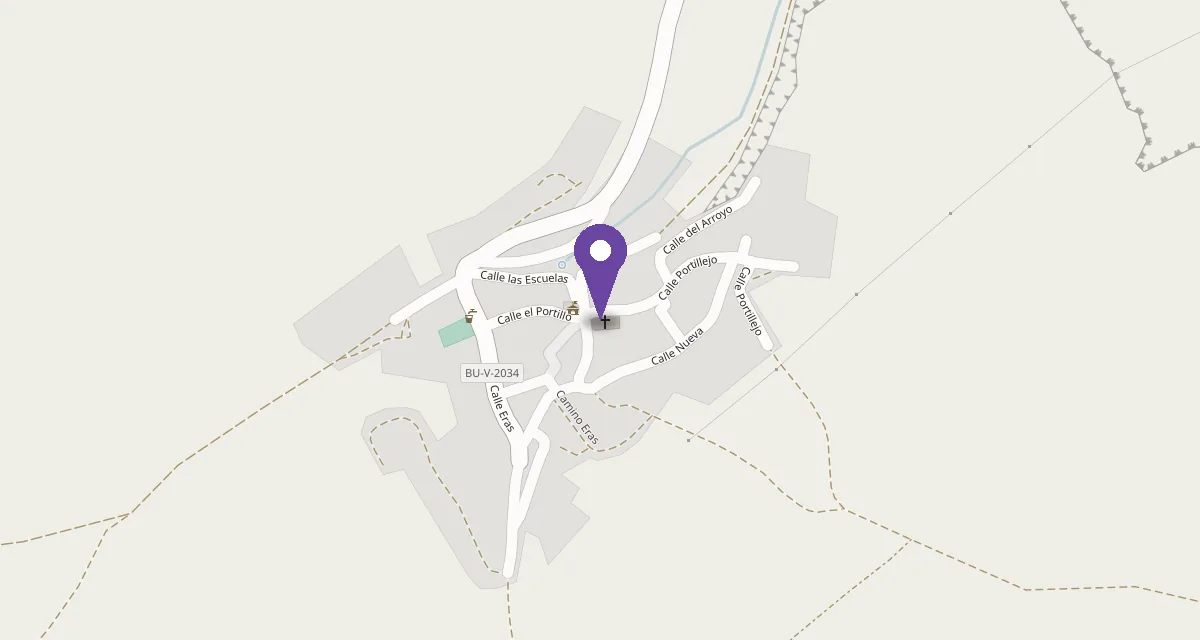
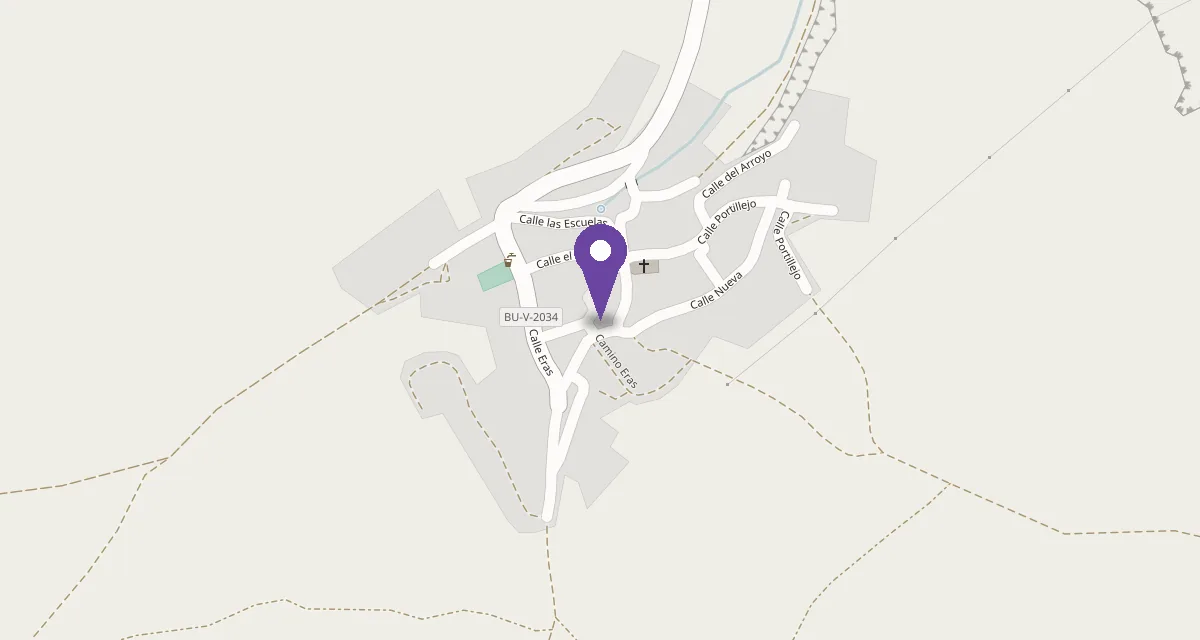
Ubicación exacta de la biblioteca: mapa, enlace a Google Maps y datos estructurados

diff --git a/contacto.html b/contacto.html
@@ -52,8 +52,8 @@
     },
     "geo": {
       "@type": "GeoCoordinates",
-      "latitude": 41.6048,
-      "longitude": -3.8497
+      "latitude": 41.604349,
+      "longitude": -3.850118
     }
   }
 }
@@ -135,7 +135,7 @@
         </article>
       </div>
 
-      <a class="mapa" href="https://www.google.com/maps/search/?api=1&amp;query=41.6048%2C-3.8497" target="_blank" rel="noopener">
+      <a class="mapa" href="https://www.google.com/maps/search/?api=1&amp;query=41.604349%2C-3.850118" target="_blank" rel="noopener">
         <img src="img/mapa.webp" width="1200" height="640" loading="lazy" alt="Mapa de Fuentemolinos con la biblioteca El Nido marcada junto a la iglesia">
         <span class="mapa__boton">Abrir en Google Maps</span>
         <span class="mapa__credito">© OpenStreetMap</span>

diff --git a/index.html b/index.html
@@ -51,8 +51,8 @@
   },
   "geo": {
     "@type": "GeoCoordinates",
-    "latitude": 41.6048,
-    "longitude": -3.8497
+    "latitude": 41.604349,
+    "longitude": -3.850118
   },
   "areaServed": "Fuentemolinos y comarca de la Ribera del Duero burgalesa",
   "sameAs": ["https://www.instagram.com/bibliotecaelnido/"]
